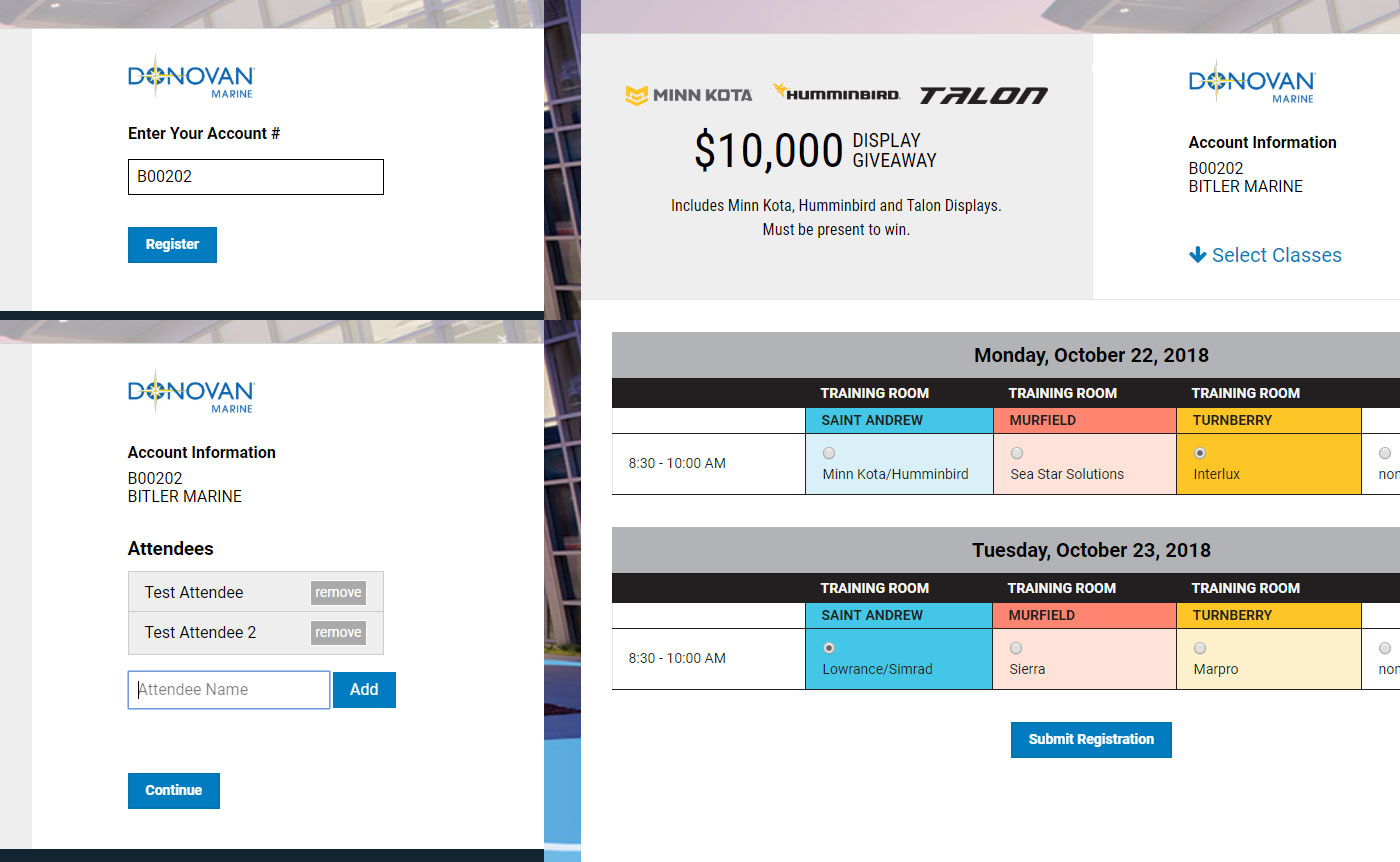
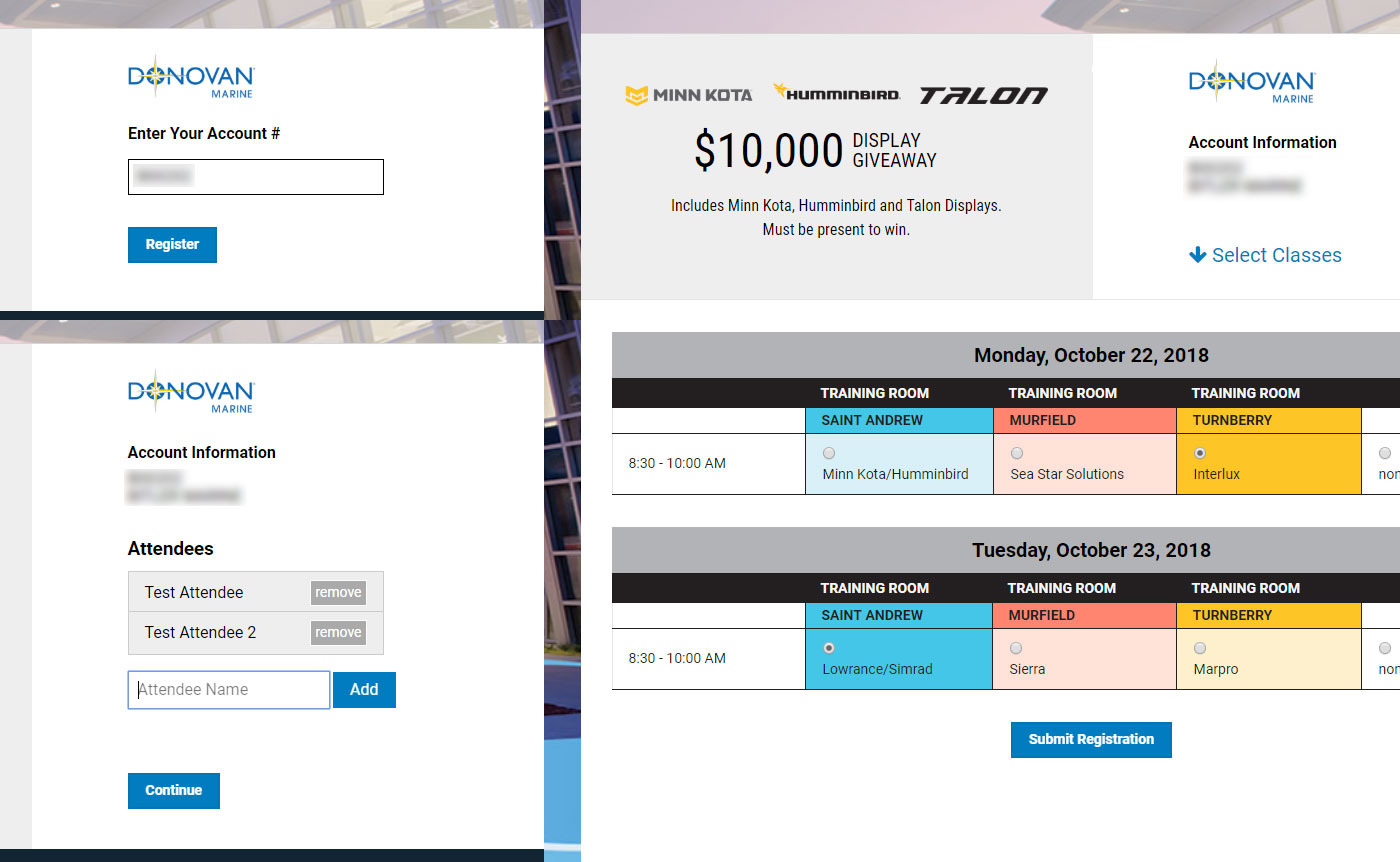
blur account info in images

Changed region(s): [[0.8293, 0.181, 0.9521, 0.2413], [0.0921, 0.5429, 0.1843, 0.6032], [0.0921, 0.181, 0.1536, 0.2111]]

diff --git a/pages/index.js b/pages/index.js
@@ -138,7 +138,7 @@ const Home = (props) => {
                   <div className="b" style={{marginTop: "-.125rem"}}>close</div>
                 </div>
               </div>
-              <div className="fr tr white-50 mr4">
+              <div className="fr tr white-50 mr3 mr4-l">
                 <div className="mv1">UI, Auth, REST API</div>
                 <div className="mv1">2017-2019</div>
               </div>
@@ -146,18 +146,24 @@ const Home = (props) => {
 
             <div className="pb4 bb b--white-10">
               <div className="fl f4 ph4 white-90 pt4 pb3">Event Registration</div>
-              <div className="fr f6 ph4 pt4 pb3">Design, HTML, CSS, Javascript</div>
-              <img src="images/registration.jpg" alt="Event Registration" title="Event Registration" />
+              <div className="fr-l lh-title f6 ph4 pt4 pb3 tr">Design, HTML, CSS, Javascript</div>
+              <div className="cl overflow-x-auto">
+                <img className="mw-none mw-100-l" src="images/registration.jpg" alt="Event Registration" title="Event Registration" />
+              </div>
             </div>
             <div className="pb4 bb b--white-10">
               <div className="fl f4 ph4 white-90 pt4 pb3">Events Admin</div>
-              <div className="fr f6 ph4 pt4 pb3">Design, HTML, CSS, Javascript, React</div>
-              <img src="images/admin.jpg" alt="Event Admin" title="Event Admin" />
+              <div className="fr-l lh-title f6 ph4 pt4 pb3 tr">Design, HTML, CSS, Javascript, React</div>
+              <div className="cl overflow-x-auto">
+                <img className="mw-none mw-100-l" src="images/admin.jpg" alt="Event Admin" title="Event Admin" />
+              </div>
             </div>
             <div className="pb4 bb b--white-10">
               <div className="fl f4 ph4 white-90 pt4 pb3">Events Data API</div>
-              <div className="fr f6 ph4 pt4 pb3">C#, SQL, REST, JSON</div>
-              <img src="images/api.jpg" alt="Event Data API" title="Events Data API" />
+              <div className="fr-l lh-title f6 ph4 pt4 pb3 tr">C#, SQL, REST, JSON</div>
+              <div className="cl overflow-x-auto">
+                <img className="mw-none mw-100-l" src="images/api.jpg" alt="Event Data API" title="Events Data API" />
+              </div>
             </div>
               <div className="white-80 pointer pa2 b mv3 tc ba db center w3 br1 bg-animate hover-bg-white-80 hover-black-90 " onClick={()=>{setWorkOverlay(false)}}>close</div>
             </div>
